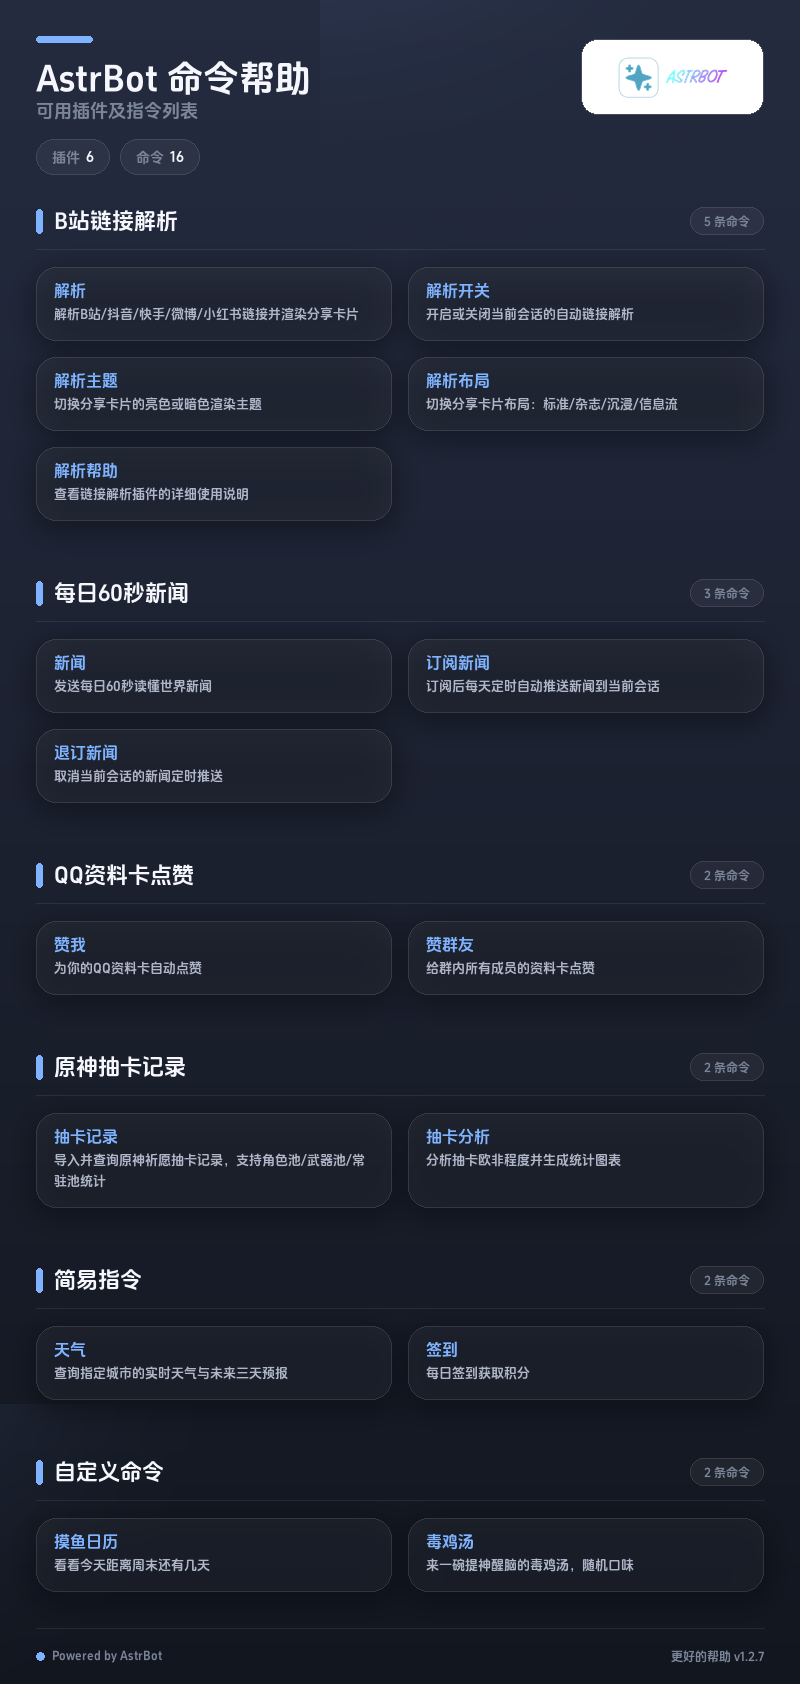
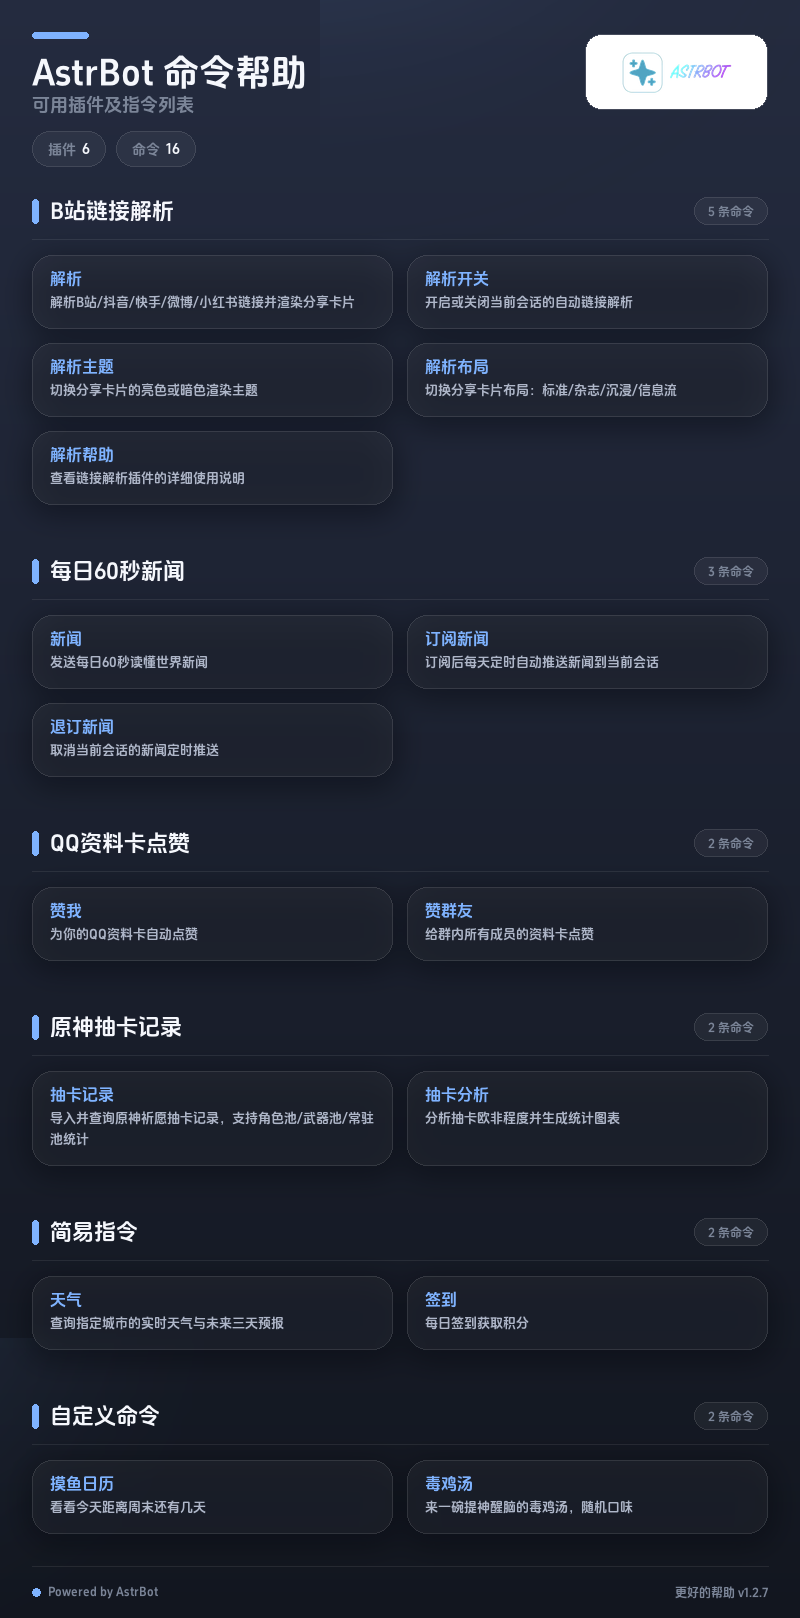
增加可选列数

diff --git a/draw.py b/draw.py
@@ -120,12 +120,12 @@ class AstrBotHelpDrawer:
 
     # --- 画布与全局 ---
     IMG_WIDTH = 800
-    PADDING = 36
+    PADDING = 32
 
     # --- 头部 ---
     HEAD_BAR_W = 56
     HEAD_BAR_H = 6
-    HEAD_BAR_GAP = 16           # accent 条与标题间距
+    HEAD_BAR_GAP = 14           # accent 条与标题间距
     HEADER_TEXT_GAP = 8         # 标题与副标题间距
     LOGO_TARGET_HEIGHT = 56
     LOGO_BOX_PADDING = 10
@@ -134,8 +134,8 @@ class AstrBotHelpDrawer:
     STAT_PILL_PAD_X = 16
     STAT_PILL_GAP = 10
     STAT_LABEL_VALUE_GAP = 6
-    HEADER_TO_STAT_GAP = 20     # 标题块与统计药丸间距
-    STAT_TO_CONTENT_GAP = 26    # 统计药丸与首个区块间距
+    HEADER_TO_STAT_GAP = 18     # 标题块与统计药丸间距
+    STAT_TO_CONTENT_GAP = 24    # 统计药丸与首个区块间距
 
     # --- 区块标题 ---
     SECTION_BAR_W = 6
@@ -143,14 +143,16 @@ class AstrBotHelpDrawer:
     SECTION_BAR_GAP = 12        # accent 竖条与区块名间距
     SECTION_ROW_H = 40          # 区块标题行高
     SECTION_DIVIDER_GAP = 8     # 标题行与分隔线间距
-    SECTION_CARD_GAP = 18       # 分隔线与首行卡片间距
-    SECTION_SPACING_AFTER = 36  # 区块结束后间距
+    SECTION_CARD_GAP = 16       # 分隔线与首行卡片间距
+    SECTION_SPACING_AFTER = 32  # 区块结束后间距
     COUNT_PILL_H = 28
     COUNT_PILL_PAD_X = 14
 
-    # --- 命令卡片（2 列大卡） ---
-    CARD_MAX_COLS = 2
-    CARD_SPACING = 16
+    # --- 命令卡片（列数可配置，默认 2 列） ---
+    DEFAULT_CARD_COLS = 2
+    MIN_CARD_COLS = 1
+    MAX_CARD_COLS = 4
+    CARD_SPACING = 14
     CARD_CORNER_RADIUS = 20
     CARD_PADDING_X = 18
     CARD_PADDING_TOP = 14
@@ -166,7 +168,7 @@ class AstrBotHelpDrawer:
     GLASS_BLUR = 10
 
     # --- 页脚 ---
-    FOOTER_HEIGHT = 56
+    FOOTER_HEIGHT = 52
     FOOTER_DOT_SIZE = 8
     FOOTER_DOT_GAP = 8
 
@@ -179,6 +181,12 @@ class AstrBotHelpDrawer:
             theme_name = "light"
         self.theme_name = theme_name
         self.theme = _THEMES[theme_name]
+
+        try:
+            cols = int(getattr(config, "render_card_columns", self.DEFAULT_CARD_COLS))
+        except (TypeError, ValueError):
+            cols = self.DEFAULT_CARD_COLS
+        self.card_max_cols = max(self.MIN_CARD_COLS, min(self.MAX_CARD_COLS, cols))
 
         self.plugin_display_name = self._load_plugin_display_name()
         self.plugin_version = self._load_plugin_version()
@@ -475,7 +483,7 @@ class AstrBotHelpDrawer:
         layer = layer.filter(ImageFilter.GaussianBlur(self.SHADOW_BLUR))
         canvas.alpha_composite(layer)
 
-    # ---------------- 卡片布局（每行 2 张大卡） ----------------
+    # ---------------- 卡片布局（列数可配置） ----------------
     def _layout_cards(
         self,
         sections: List[Tuple[str, List[Tuple[str, str | None]]]],
@@ -483,7 +491,7 @@ class AstrBotHelpDrawer:
     ) -> List[Dict]:
         layout_info: List[Dict] = []
         y_offset = self.top_area_height
-        max_cols = self.CARD_MAX_COLS
+        max_cols = self.card_max_cols
         card_spacing = self.CARD_SPACING
         card_width = (
             self.IMG_WIDTH - self.PADDING * 2 - card_spacing * (max_cols - 1)
